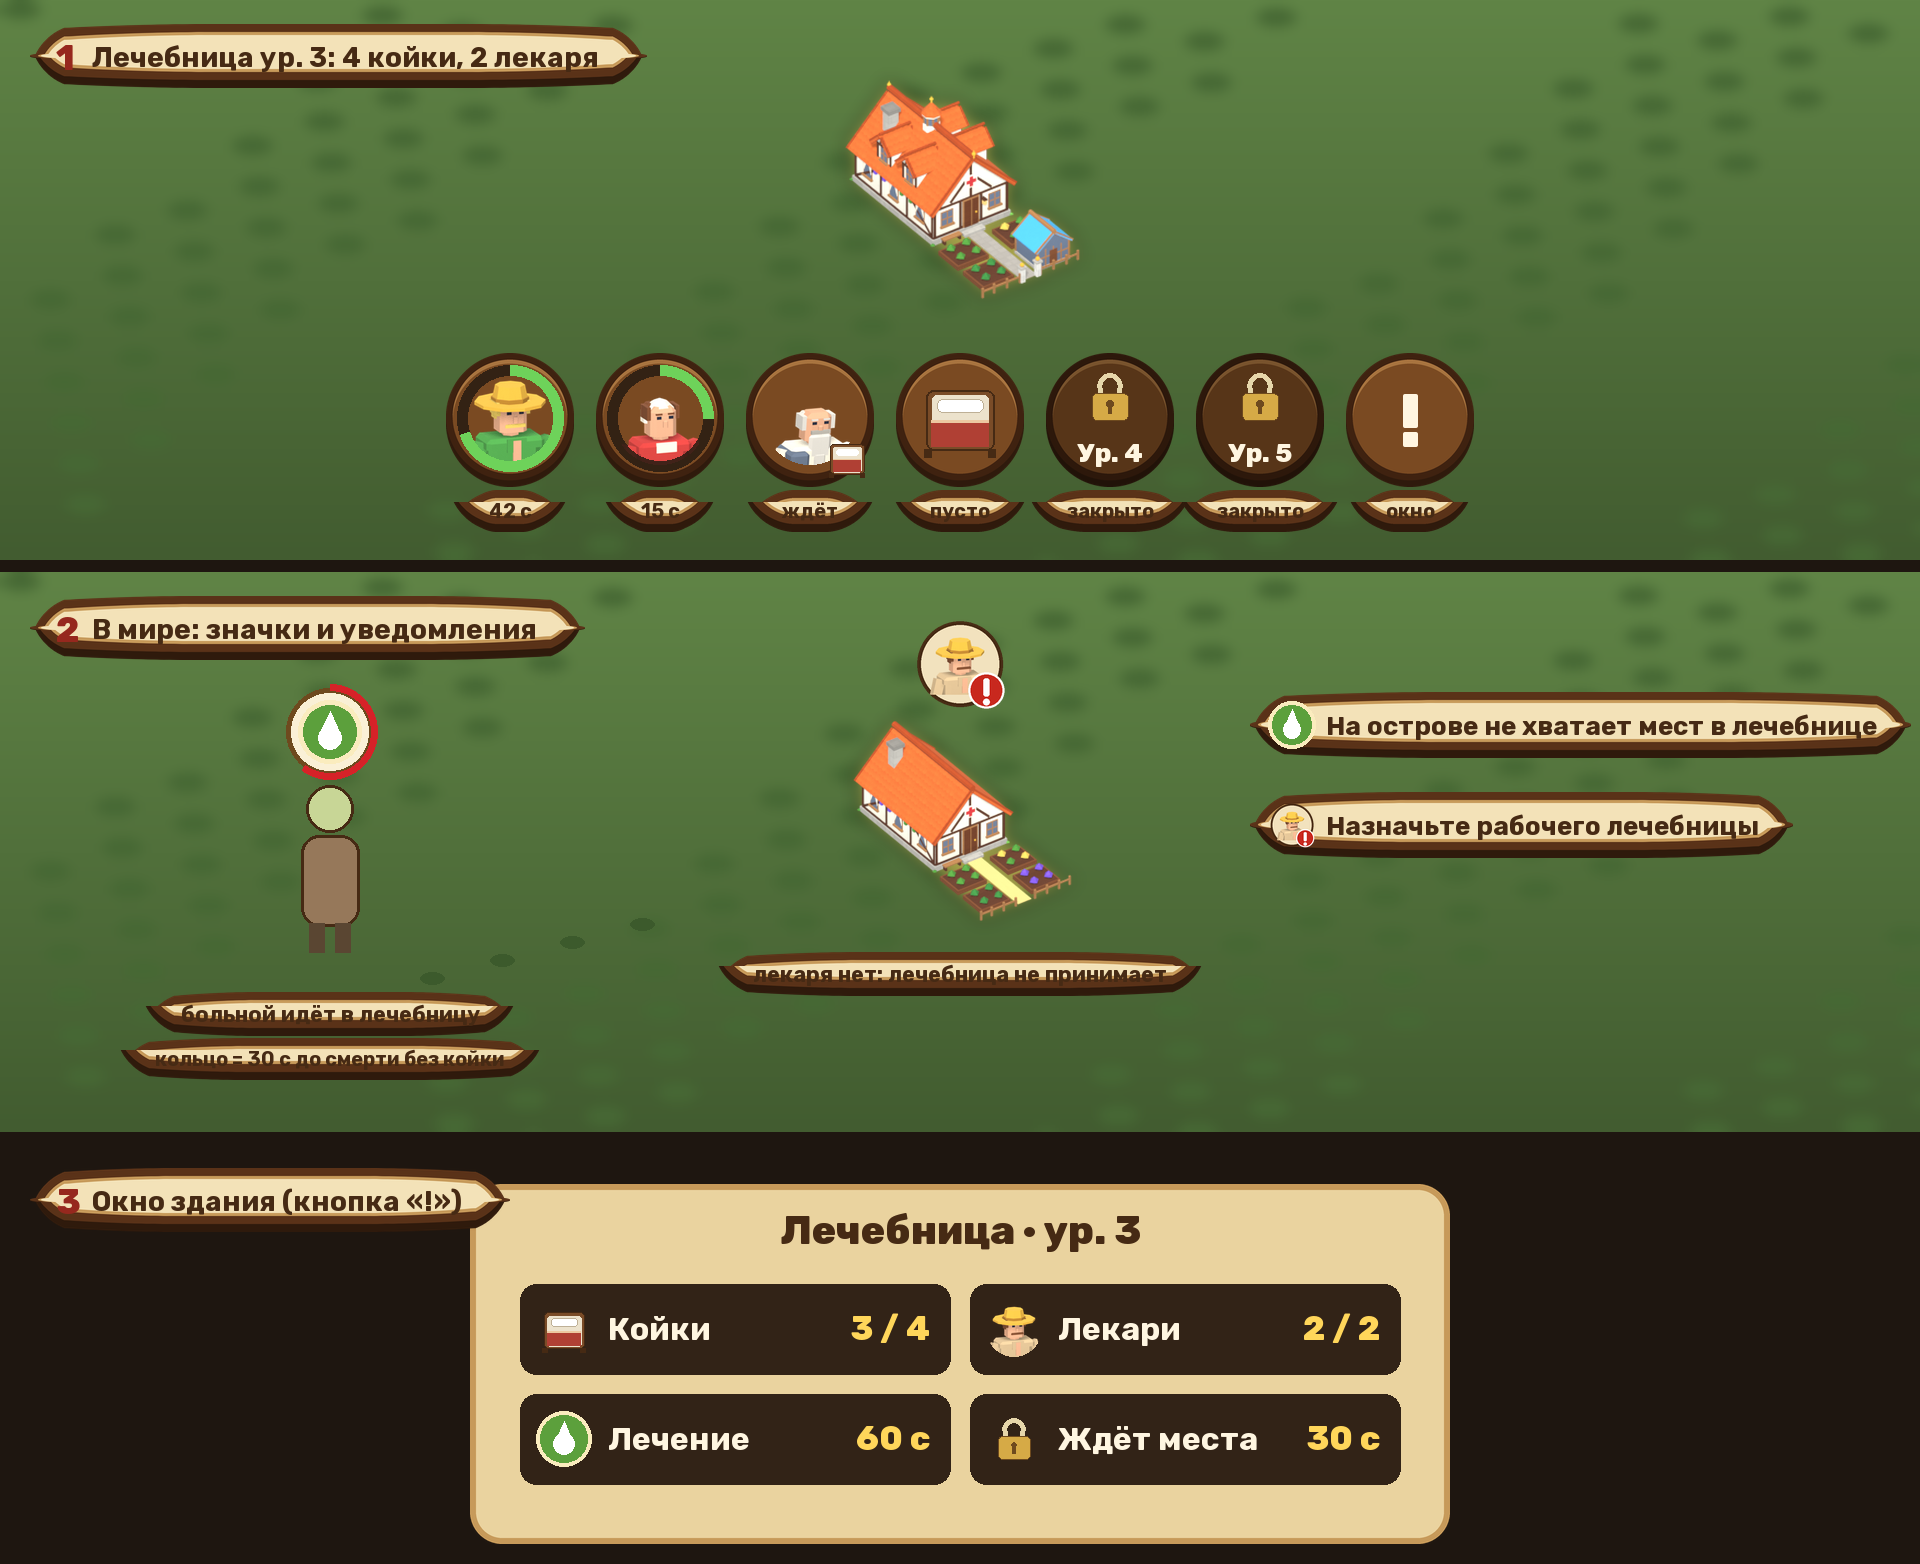
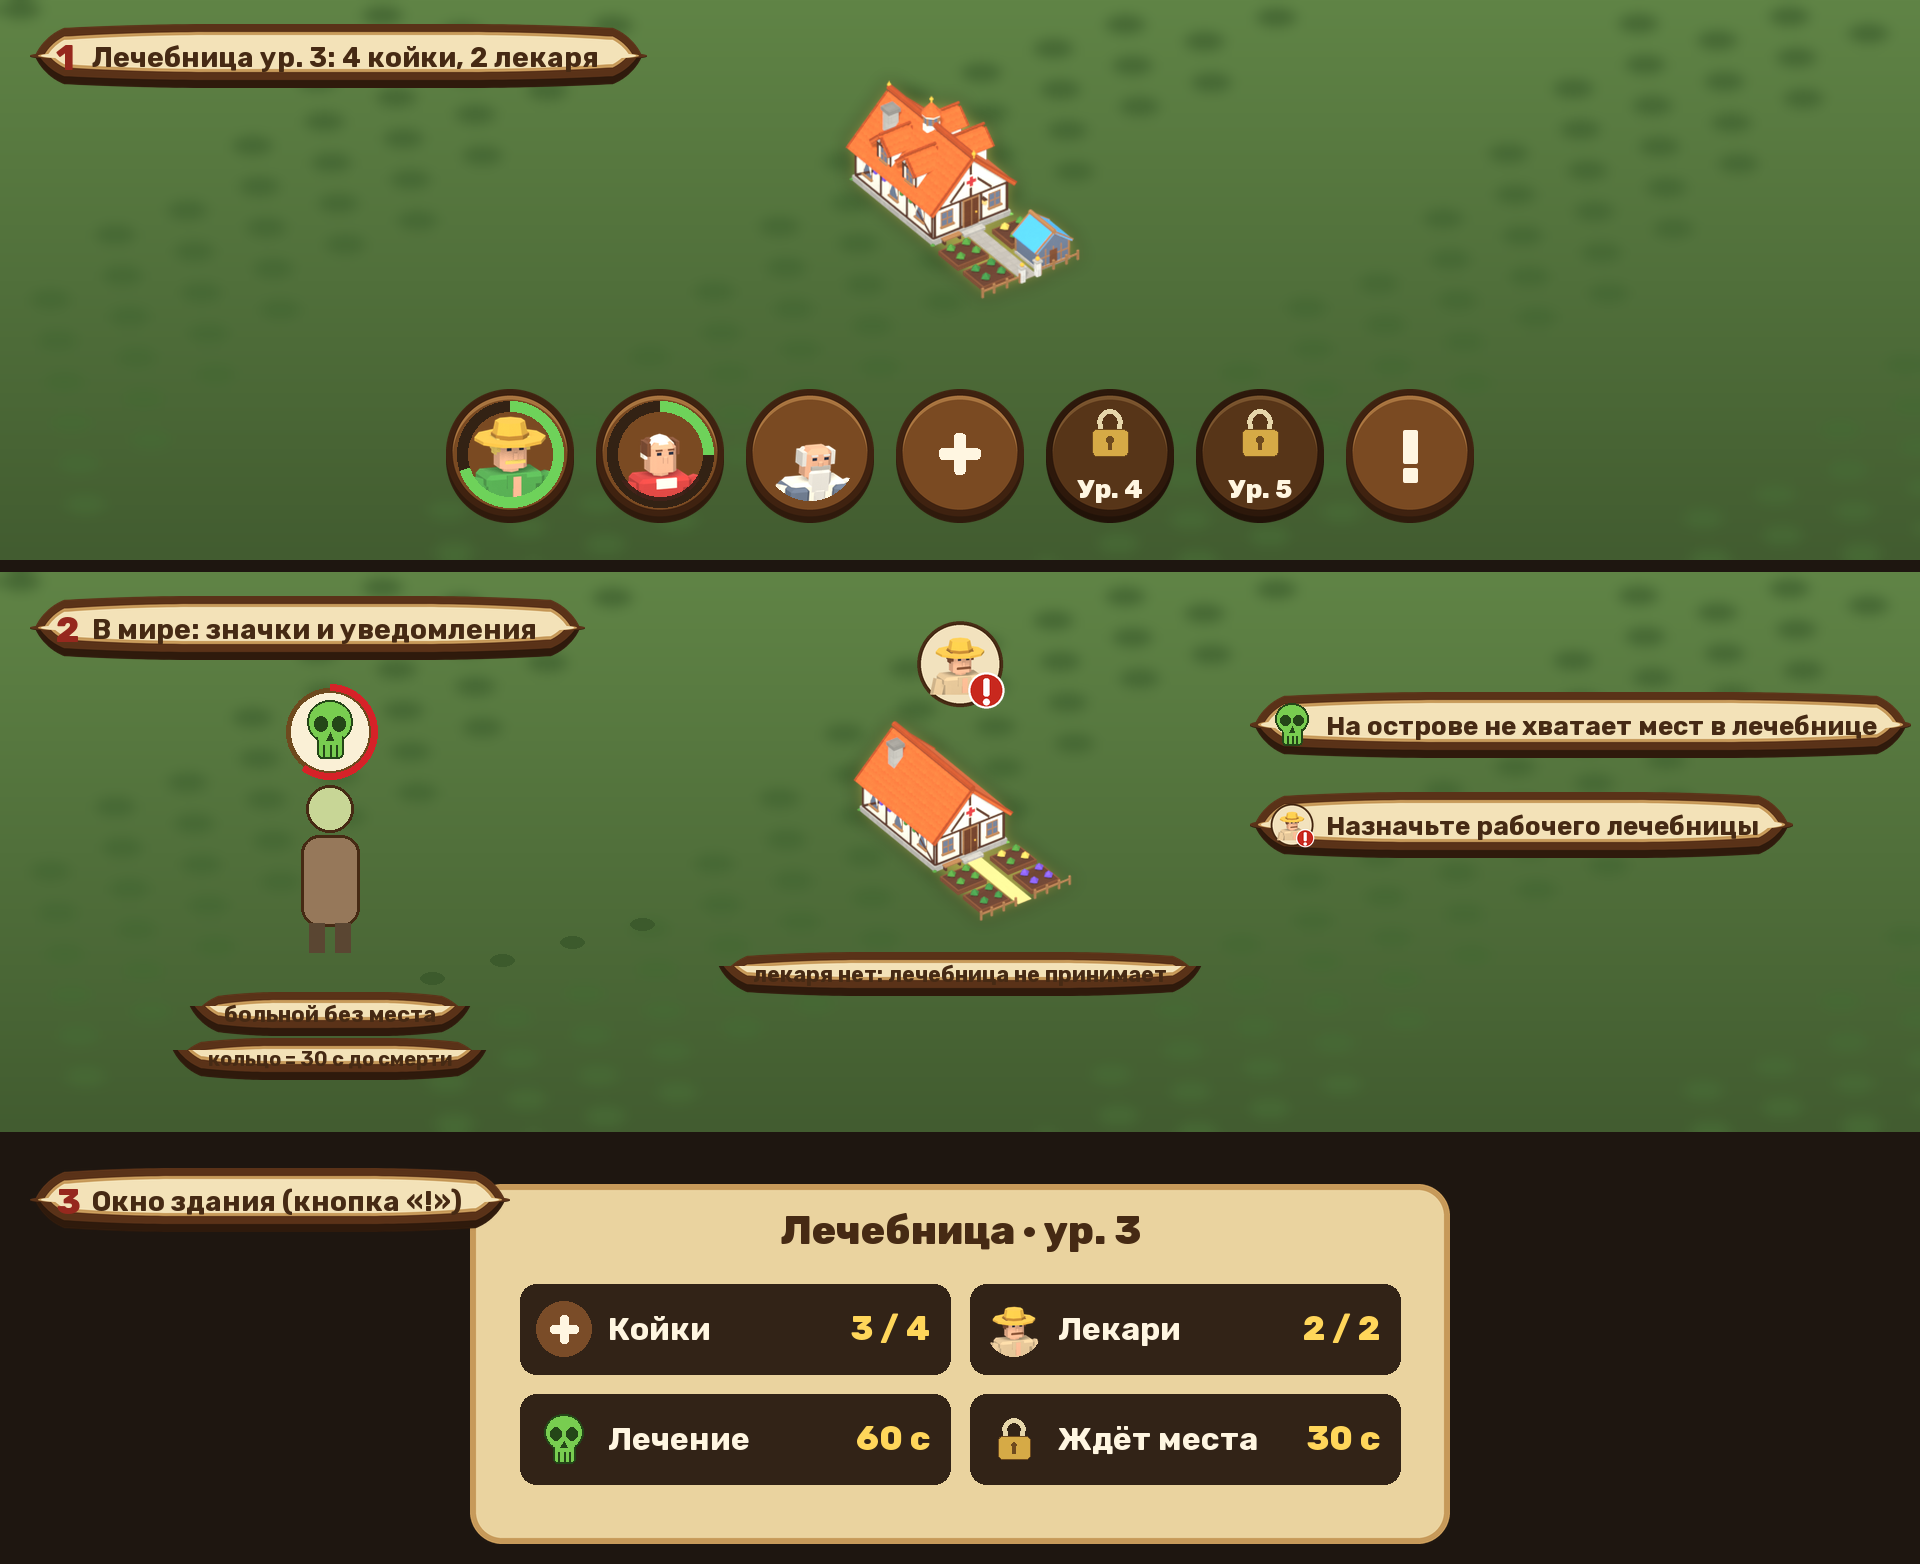
Healer concepts round 2: plus for an empty bed, green skull, no captions; a bed is booked the moment one falls ill

diff --git a/Tools/ui/healer_concepts.py b/Tools/ui/healer_concepts.py
@@ -72,6 +72,14 @@ def lock(size):
     return im
 
 
+def plus_dark(size):
+    im = Image.new("RGBA", (size, size))
+    ImageDraw.Draw(im).ellipse([0, 0, size - 1, size - 1], fill=(122, 76, 40, 255))
+    p = plus(int(size * .8))
+    im.alpha_composite(p, ((size - p.width) // 2, (size - p.height) // 2))
+    return im
+
+
 def portrait_disc(name, size):
     """A villager portrait cut to a disc (as the hire bar's people)."""
     p = sb.sprite(name, (size, size))
@@ -83,14 +91,31 @@ def portrait_disc(name, size):
 
 
 def sick_badge(size=44):
-    """The sickness mark: a green disc, a white drop with a fever line."""
+    """The sickness mark (the user, 2026-11-13): a green skull."""
     t = Image.new("RGBA", (size, size))
     d = ImageDraw.Draw(t)
-    d.ellipse([0, 0, size - 1, size - 1], fill=(92, 160, 60, 255), outline=(250, 236, 190, 255), width=max(2, size // 12))
-    s = size / 44
-    d.ellipse([14 * s, 18 * s, 30 * s, 34 * s], fill=(255, 255, 255, 255))
-    d.polygon([(15 * s, 24 * s), (22 * s, 8 * s), (29 * s, 24 * s)], fill=(255, 255, 255, 255))
+    s = size / 100
+    green, dark = (120, 205, 80, 255), (36, 70, 24, 255)
+    w = max(2, int(4 * s))
+    d.ellipse([16 * s, 6 * s, 84 * s, 70 * s], fill=green, outline=dark, width=w)
+    d.rounded_rectangle([30 * s, 56 * s, 70 * s, 92 * s], 8 * s, fill=green, outline=dark, width=w)
+    d.rectangle([32 * s, 54 * s, 68 * s, 64 * s], fill=green)
+    d.ellipse([26 * s, 30 * s, 46 * s, 52 * s], fill=dark)
+    d.ellipse([54 * s, 30 * s, 74 * s, 52 * s], fill=dark)
+    d.polygon([(50 * s, 54 * s), (44 * s, 66 * s), (56 * s, 66 * s)], fill=dark)
+    for x in (40, 50, 60):
+        d.line([(x * s, 74 * s), (x * s, 90 * s)], fill=dark, width=w)
     return t
+
+
+def plus(size):
+    """An empty bed slot (the user, 2026-11-13): a plain plus."""
+    im = Image.new("RGBA", (size, size))
+    d = ImageDraw.Draw(im)
+    s = size / 100
+    d.rounded_rectangle([42 * s, 18 * s, 58 * s, 82 * s], 6 * s, fill=(255, 246, 225, 255))
+    d.rounded_rectangle([18 * s, 42 * s, 82 * s, 58 * s], 6 * s, fill=(255, 246, 225, 255))
+    return im
 
 
 def slot(kind, arg):
@@ -105,7 +130,7 @@ def slot(kind, arg):
         d.text(((b.width - d.textlength(t, font=f)) / 2, b.height - 50), t, font=f, fill=CREAM)
         return b
     if kind is None:
-        b.alpha_composite(bed(inner), (ox, oy))
+        b.alpha_composite(plus(int(inner * .7)), ((b.width - int(inner * .7)) // 2, (b.height - int(inner * .7)) // 2 - 2))
         return b
     b.alpha_composite(portrait_disc(kind, inner), (ox, oy))
     if arg is not None:  # under treatment: the 60 s ring
@@ -115,8 +140,6 @@ def slot(kind, arg):
         rd.arc(box, 0, 360, fill=(40, 28, 18, 220), width=11)
         rd.arc(box, -90, -90 + 360 * arg, fill=(110, 210, 90, 255), width=11)
         b.alpha_composite(r)
-    else:  # lying in bed, waiting for a free healer: a small bed badge
-        b.alpha_composite(bed(46), (b.width - 50, b.height - 52))
     return b
 
 
@@ -138,13 +161,10 @@ def panel_bar():
     c = ground()
     held(c, W // 2, 30)
     xs = row_x(7)
-    cy = H - 60 - 80
+    cy = H - 24 - 80
     for i, (kind, arg) in enumerate(SLOTS):
         sb.put_centre(c, slot("lock" if kind == "lock" else kind, arg), xs[i], cy)
     sb.mark_button(c, xs[6], cy)
-    names = ["42 с", "15 с", "ждёт", "пусто", "закрыто", "закрыто", "окно"]
-    for x, n in zip(xs, names):
-        label(c, x, cy + 70, n, 20)
     caption(c, "1", "Лечебница ур. 3: 4 койки, 2 лекаря")
     return c
 
@@ -186,14 +206,14 @@ def panel_world():
     disc = Image.new("RGBA", mark.size)
     dd = ImageDraw.Draw(disc)
     dd.ellipse([4, 4, 91, 91], fill=(250, 240, 214, 255), outline=(110, 74, 30, 255), width=5)
-    disc.alpha_composite(sick_badge(64), (16, 16))
+    disc.alpha_composite(sick_badge(66), (15, 13))
     ring = ImageDraw.Draw(disc)
     ring.arc([0, 0, 95, 95], -90, -90 + 360 * .6, fill=(214, 34, 40, 255), width=7)
     sb.put_centre(c, disc, 330, 160)
     for k in range(4):  # footsteps towards the healer
         ImageDraw.Draw(c).ellipse([420 + k * 70, 400 - k * 18, 444 + k * 70, 412 - k * 18], fill=(60, 90, 44, 255))
-    label(c, 330, 420, "больной идёт в лечебницу", 22)
-    label(c, 330, 466, "кольцо = 30 с до смерти без койки", 20)
+    label(c, 330, 420, "больной без места", 22)
+    label(c, 330, 466, "кольцо = 30 с до смерти", 20)
 
     # middle: the healer with no healer assigned -- the worker mark over it
     held(c, 960, 120, 240, "HealerHouse")
@@ -214,7 +234,7 @@ def panel_card():
     d = ImageDraw.Draw(c)
     t = "Лечебница · ур. 3"
     d.text((W // 2 - d.textlength(t, font=sb.font(40)) / 2, 62), t, font=sb.font(40), fill=INK)
-    rows = [(bed(56), "Койки", "3 / 4"), (portrait_disc("PortraitVillagerPeasant1", 56), "Лекари", "2 / 2"),
+    rows = [(plus_dark(56), "Койки", "3 / 4"), (portrait_disc("PortraitVillagerPeasant1", 56), "Лекари", "2 / 2"),
             (sick_badge(56), "Лечение", "60 с"), (lock(56), "Ждёт места", "30 с")]
     x0 = W // 2 - 440
     for i, (icon, name, value) in enumerate(rows):

diff --git a/Design/features/hazards-fire-sickness.md b/Design/features/hazards-fire-sickness.md
@@ -22,12 +22,13 @@ The user's rules, SANDBOX ONLY (other modes keep the radius healer above):
 - Illness chance unchanged (daily roll). A sick resident leaves his job (another is hired), pays no tax,
   and WALKS to the nearest healer on his island with a free bed, a sickness mark over his head.
 - No radius: beds. Beds by level 2/3/4/5/6; healers (workers) 1/2/2/3/3. Several healers on an island: beds add up, nearest free one.
-- In a bed = never dies. Without a bed a sick resident lives 30 s (the walk counts); a bed freed in time
+- A free bed is TAKEN THE MOMENT he falls ill (he walks there meanwhile): his death timer stops and
+  treatment counts from then (he is on the healer's list). In a bed = never dies. Without a bed a sick resident lives 30 s (the walk counts); a bed freed in time
   goes to whoever fell ill FIRST. No healer on the island = he dies.
 - Treatment 60 s per patient, in queue order; as many at once as healers assigned.
 - A healer with no worker takes nobody (no-worker mark + notice «Назначьте рабочего лечебницы»);
   beds short: notice «На острове не хватает мест в лечебнице».
-- Bottom bar on tap: 6 bed slots (empty bed / portrait / portrait in a 60 s ring; locked «Ур. N») + «!» 7th. No bar over the building.
+- Bottom bar on tap: 6 bed slots (empty = a plus / portrait / portrait in a 60 s ring; locked «Ур. N»), no captions under them; sickness mark = a GREEN SKULL + «!» 7th. No bar over the building.
 - Numbers on the sheet as per-level columns (beds, workers, 60 s, 30 s).
 - Workers: general auto-assignment, BUT the player's manual count has priority for EVERY building
   (lowered 3->1: auto never gives more than 1; set to 0: no-worker mark stays, auto never staffs it).
